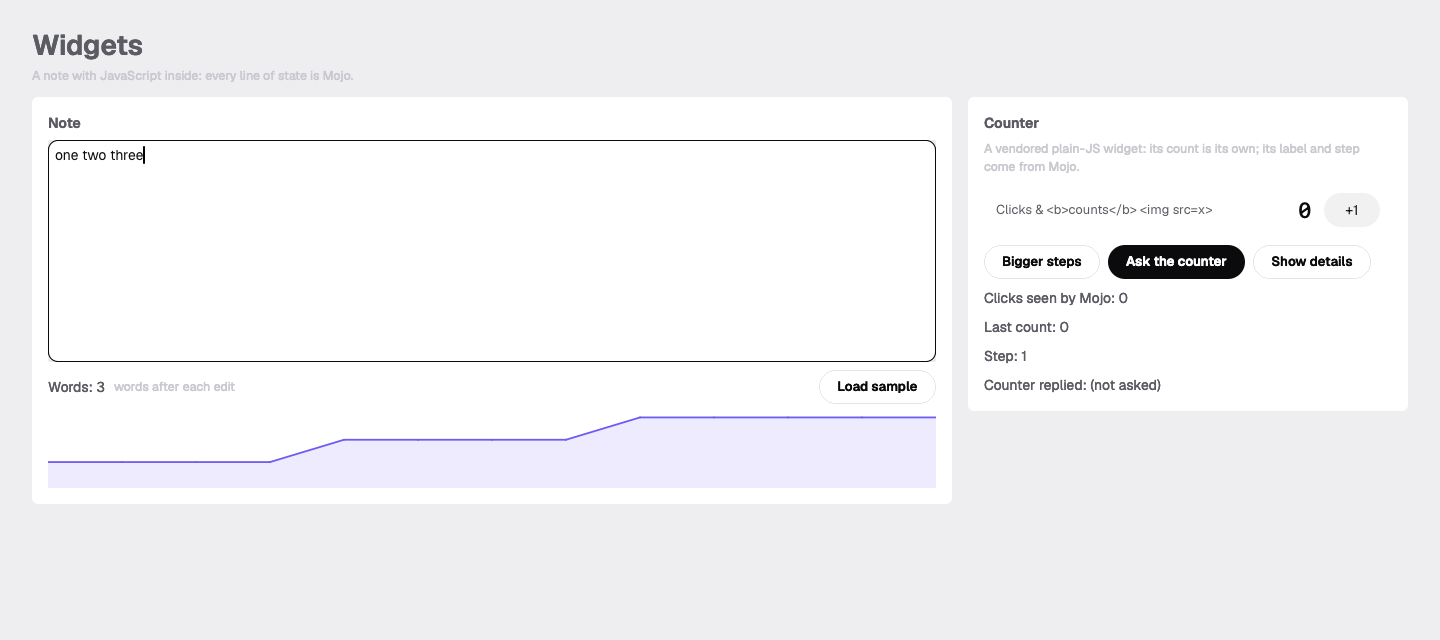
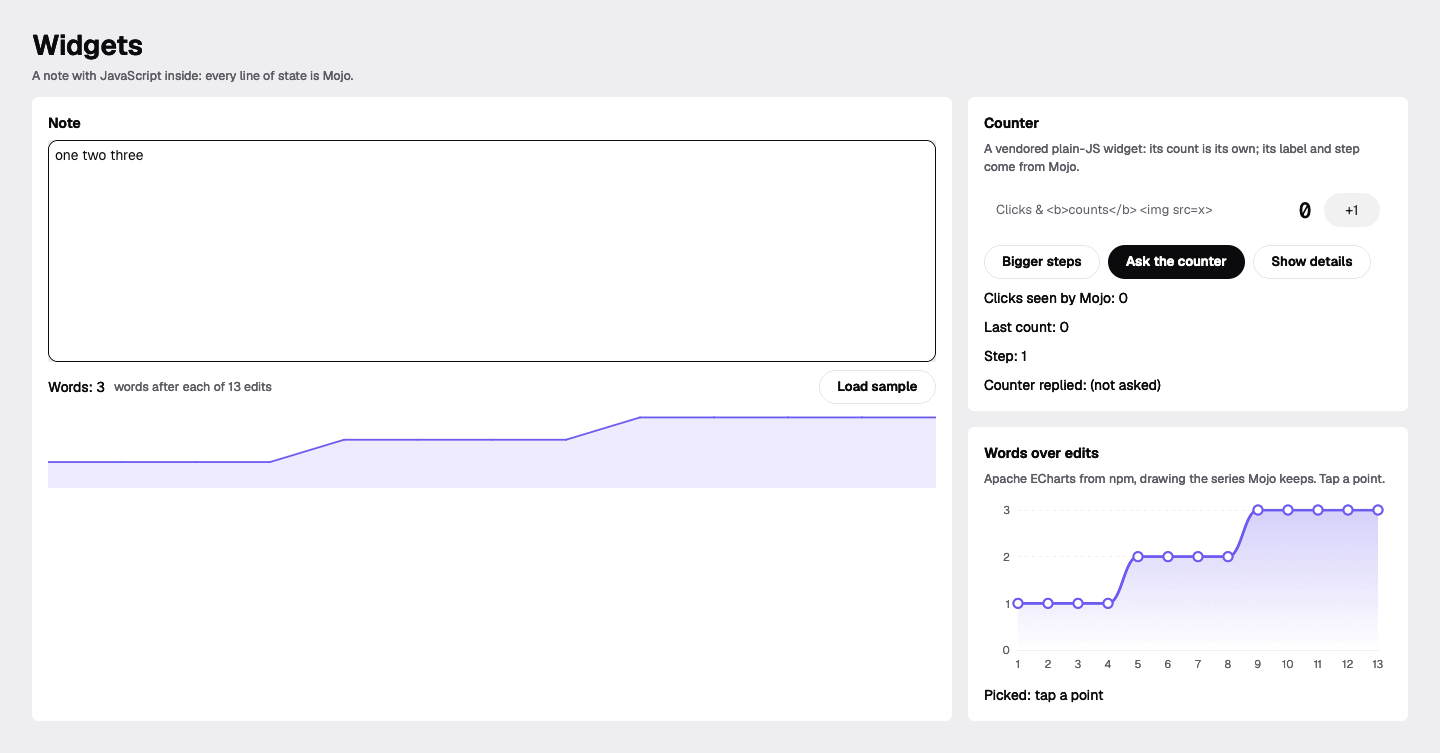
Goal 34b: fresh Mac run 40617272485 (widgets + console): M2 PASS with the chart, theming, sets and facts on the Mac; Mac pictures light and dark; full check M0 M1 M1b M1c M2 M3 PASS

diff --git a/docs/journal.md b/docs/journal.md
@@ -695,3 +695,8 @@ Owner asked how omxapp/omxplorer become agent-native. Drew `docs/design/agent/bo
 ## 2026-10-27 · goal 34b: shared JS widgets
 - git mv examples/widgets/web/{package.json,package-lock.json,widgets/editor.*,widgets/chart.*} → mojoui/widgets/; examples/widgets/web/shared.json picks editor and chart; the counter stays the app's own (D-675).
 - web_assets.py: shared_entries + install_from; the bundles came out byte for byte the same (editor.791f6708…, chart.42ca8fb5…). docs/js.md §0 says how any app adds them; the matrix's debt table no longer lists them.
+
+## 2026-10-27 · goal 34b: a fresh Mac run, then the whole check
+- The Mac's washed-out text was ours (D-676), not the runner's inactive window: every skinned Text took ink2 (captions ink3) while omxqua's sheets say ink and ink2. Fixed before the run.
+- scripts/mac-ci widgets console → run 40617272485 (fresh, stamp 7ce14f5cda6059f5). m2 PASS on its first try: the chart drew, tokens matched in light and dark with one mount each, the sparkline dark in dark (m2-widgets-mac-dark.png), Last count: 42 and Words: 4 from the sets, the facts back, WEBINSPECT 0. The console's Mac boxes after D-673/D-676: 1268 of 1268 within parity of the web's (goal 33 M7's Mac part, run by hand).
+- `pixi run python scripts/check.py`: M0, M1, M1b, M1c, M2, M3 PASS (M3 380 s).
